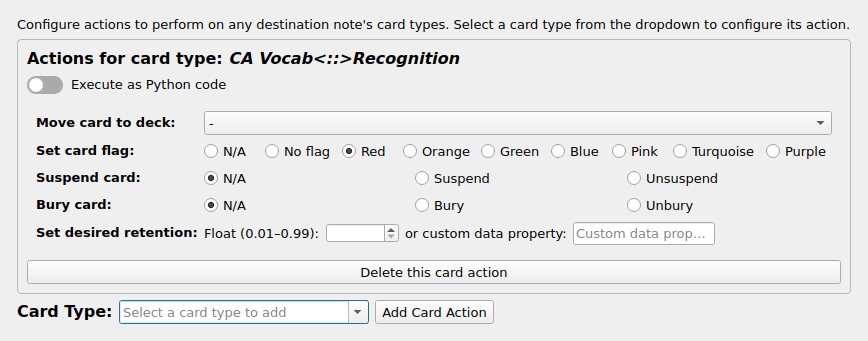
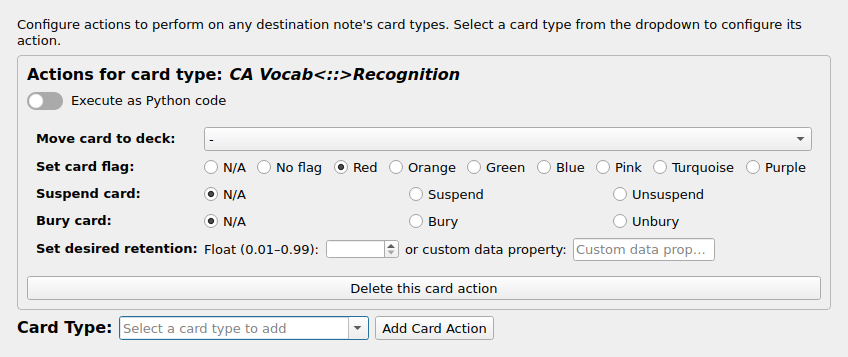
copy_anywhere: the definition editor's text no longer widens it
A QLabel on one line needs its whole text's width, and in the definition
editor that set the minimum width of the scroll area. An Edit Note stage
whose summary listed a dozen fields made the stage list as wide as that
line, 3333px in the test, and it scrolled sideways far past its half of
the dialog. The help texts under the triggers, the stages, the exports
and the card actions did the same on a smaller scale; the card actions'
alone needed 769px.

- A stage's summary is now an ElidedLabel: one line that ends in "…"
  where the row runs out, with the whole text on hover. Wrapping it
  instead was tried and cut the extra lines off, because the nested
  layouts do not give a row the height a wrapped label needs. text()
  still returns the whole summary, so code and tests read what it says,
  not how much of it fits.
- The help texts and the card-action header wrap, through a small
  `wrapping` helper.
- The triggers form's left-hand labels and the stage titles stay on one
  line. QFormLayout cut off the end of a wrapped label, and a wrapped
  title reports a narrow preferred width that broke even two-word names.
  Both are short and fixed or user-chosen, and no longer set the width.

With a crowded Edit Note stage, the editor's minimum width falls from
801px to 479px.

Tests:
- A long summary leaves its row as narrow as a short one does.
- Every small-print help text in the editor wraps.
- ElidedLabel shows what fits and says the rest on hover.
[…]

diff --git a/copy_anywhere/test/test_stage_editor_ui.py b/copy_anywhere/test/test_stage_editor_ui.py
@@ -9,6 +9,7 @@ is ordinary logic that happens to live in widgets.
 import copy
 
 import pytest
+from aqt.qt import QLabel
 
 from copy_anywhere.configuration import (
     definition_deck_names,
@@ -187,6 +188,61 @@ def test_the_card_action_loading_note_is_gone_once_the_actions_load(col, qapp):
     actions._process_load_queue()
     assert actions.loading_indicator is None
     assert indicator.isHidden()
+
+
+def test_a_long_stage_summary_is_cut_off_rather_than_widening_its_row(col, qapp):
+    # A summary listing a dozen field names on one line made the row, and with it the whole
+    # stage list, as wide as the text: the list scrolled sideways past its half of the dialog.
+    def edit_note_row(field_names):
+        stage = default_stage(STAGE_EDIT_NOTE, "e")
+        stage["fields"] = [
+            {"field": name, "value": value_expression(text="x"), "write_if": "always"}
+            for name in field_names
+        ]
+        tree = tree_for(col, stage)
+        tree.rows["e"].set_expanded(False, announce=False)
+        return tree.rows["e"]
+
+    short = edit_note_row(["Word"])
+    long = edit_note_row([f"sentence-{n}-kanjified-furigana-processed" for n in range(12)])
+    assert len(long.summary.text()) > 300
+    # It needed 3333px on one line. Cut off with "…" where the row ends, it asks for no
+    # more than a short one, and says the rest on hover.
+    assert long.minimumSizeHint().width() == short.minimumSizeHint().width()
+
+
+def test_an_elided_label_shows_what_fits_and_says_the_rest_on_hover(qapp):
+    from copy_anywhere.ui.labels import ElidedLabel
+
+    text = "trigger: " + ", ".join(f"field-{n}" for n in range(40))
+    label = ElidedLabel(text)
+    # Shown, because a hidden widget is sent its resize events only when it is shown.
+    label.show()
+    label.resize(200, label.height())
+
+    shown = QLabel.text(label)
+    assert shown.endswith("…") and len(shown) < len(text)
+    assert label.text() == text
+    assert label.toolTip() == text
+
+    label.resize(label.sizeHint().width() + 10, label.height())
+
+    assert QLabel.text(label) == text
+    assert label.toolTip() == ""
+    label.close()
+
+
+def test_the_editor_s_help_text_wraps_rather_than_widening_it(dialog):
+    # On one line, the Exports panel's help alone set the editor's minimum width to 684px,
+    # and the card actions' to 769px.
+    from aqt.qt import QLabel
+
+    help_texts = [
+        label for label in dialog.inner_widget.findChildren(QLabel)
+        if label.text().startswith("<small>")
+    ]
+    assert len(help_texts) >= 4
+    assert [label.text()[:40] for label in help_texts if not label.wordWrap()] == []
 
 
 # -- reorder --------------------------------------------------------------------------

diff --git a/copy_anywhere/ui/labels.py b/copy_anywhere/ui/labels.py
@@ -1,0 +1,65 @@
+"""Labels that wrap instead of widening the editor.
+
+A QLabel does not wrap by default, and its minimum width is then its whole text on one line.
+In the definition editor that meant a stage summary listing a dozen field names, or one
+line of help text, set the minimum width of the whole scroll area: the stage list grew
+wider than its half of the dialog and scrolled sideways.
+"""
+
+from __future__ import annotations
+
+from typing import Optional
+
+from aqt.qt import QLabel, QResizeEvent, QSize, Qt, QWidget, qtmajor
+
+if qtmajor > 5:
+    ElideRight = Qt.TextElideMode.ElideRight
+else:  # pragma: no cover -- Anki 2.1.49 and older
+    ElideRight = Qt.ElideRight  # type: ignore[attr-defined]
+
+
+def wrapping(label: QLabel) -> QLabel:
+    """`label`, set to wrap its text at the width it is given."""
+    label.setWordWrap(True)
+    return label
+
+
+class ElidedLabel(QLabel):
+    """One line of plain text that ends in "…" where the space runs out, whole on hover.
+
+    For a line that sits beside other widgets in a row, such as a stage's summary. A wrapped
+    label there needs the row to grow taller for it, and nested layouts do not pass that on,
+    so the extra lines were cut off. This one asks for no width it does not get: its minimum
+    is a sliver, and what it is given decides how much of the text shows.
+    """
+
+    def __init__(self, text: str = "", parent: Optional[QWidget] = None) -> None:
+        super().__init__(parent)
+        self._full_text = ""
+        self.setText(text)
+
+    def setText(self, text: Optional[str]) -> None:  # noqa: N802 -- Qt's name
+        self._full_text = text or ""
+        self._elide()
+
+    def text(self) -> str:
+        """The whole text, as set. Only the painting is shortened: code and tests reading the
+        label get what it says, not how much of it fits."""
+        return self._full_text
+
+    def minimumSizeHint(self) -> QSize:  # noqa: N802 -- Qt's name
+        hint = super().minimumSizeHint()
+        return QSize(self.fontMetrics().horizontalAdvance("…") * 3, hint.height())
+
+    def sizeHint(self) -> QSize:  # noqa: N802 -- Qt's name
+        hint = super().sizeHint()
+        return QSize(self.fontMetrics().horizontalAdvance(self._full_text), hint.height())
+
+    def resizeEvent(self, event: Optional[QResizeEvent]) -> None:  # noqa: N802 -- Qt's name
+        super().resizeEvent(event)
+        self._elide()
+
+    def _elide(self) -> None:
+        shown = self.fontMetrics().elidedText(self._full_text, ElideRight, self.width())
+        super().setText(shown)
+        self.setToolTip(self._full_text if shown != self._full_text else "")

diff --git a/copy_anywhere/ui/stage_triggers_editor.py b/copy_anywhere/ui/stage_triggers_editor.py
@@ -27,6 +27,7 @@ from aqt.qt import (
 from ..logic.definition_schema import CopyDefinitionV2, Triggers
 from ..shared.ui.multi_combo_box import MultiComboBox
 from ..shared.ui.required_text_input import RequiredLineEdit
+from .labels import wrapping
 
 
 def quoted_items(names) -> list[str]:
@@ -138,10 +139,12 @@ class TriggersEditor(QWidget):
         form.addRow(QLabel("<h4>Trigger deck limit</h4>", self), self.decks_box)
         form.addRow(
             "",
-            QLabel(
-                "<small>Cards belong to decks, not notes. A note passes the limit when any"
-                " of its cards is in a listed deck.</small>",
-                self,
+            wrapping(
+                QLabel(
+                    "<small>Cards belong to decks, not notes. A note passes the limit when"
+                    " any of its cards is in a listed deck.</small>",
+                    self,
+                )
             ),
         )
 
@@ -168,6 +171,8 @@ class TriggersEditor(QWidget):
         unfocus = triggers.setdefault("on_unfocus", {"edit_fields": [], "add_fields": []})
         self.unfocus_edit = MultiComboBox(self, placeholder_text="No fields (never)")
         self.unfocus_edit.currentTextChanged.connect(self._on_changed)
+        # The labels in this form's left column stay on one line: QFormLayout does not give
+        # a wrapped label the height its extra lines need, so the end of it was cut off.
         form.addRow(
             QLabel("<h4>Run when leaving a field, editing a note</h4>", self),
             self.unfocus_edit,
@@ -179,10 +184,12 @@ class TriggersEditor(QWidget):
         )
         form.addRow(
             "",
-            QLabel(
-                "<small>Unfocus runs the whole definition, not just the stages that mention"
-                " the field you left.</small>",
-                self,
+            wrapping(
+                QLabel(
+                    "<small>Unfocus runs the whole definition, not just the stages that"
+                    " mention the field you left.</small>",
+                    self,
+                )
             ),
         )
         # What the user has chosen, as opposed to what the boxes can currently offer. The

diff --git a/copy_anywhere/ui/stage_list.py b/copy_anywhere/ui/stage_list.py
@@ -23,12 +23,14 @@ from aqt.qt import (
     QToolButton,
     QVBoxLayout,
     QWidget,
+    Qt,
     pyqtSignal,
     qtmajor,
 )
 
 from ..logic.definition_schema import Stage, stage_body_blocks
 from .discard import discard_widget
+from .labels import ElidedLabel
 from .stage_document import (
     BODY_KEY_LABELS,
     STAGE_TYPE_ICONS,
@@ -49,9 +51,11 @@ from .stage_editors import StageEditorEnvironment, make_stage_editor
 if qtmajor > 5:
     QSizePolicyPreferred = QSizePolicy.Policy.Preferred
     QSizePolicyMinimum = QSizePolicy.Policy.Minimum
+    PlainText = Qt.TextFormat.PlainText
 else:  # pragma: no cover -- Anki 2.1.49 and older
     QSizePolicyPreferred = QSizePolicy.Preferred  # type: ignore[attr-defined]
     QSizePolicyMinimum = QSizePolicy.Minimum  # type: ignore[attr-defined]
+    PlainText = Qt.PlainText  # type: ignore[attr-defined]
 
 #: How far one nesting level is indented, in pixels.
 INDENT = 18
@@ -91,10 +95,13 @@ class StageRow(QFrame):
 
         stage_type = stage.get("type", "")
         header.addWidget(QLabel(STAGE_TYPE_ICONS.get(stage_type, "•"), self))
+        # The title stays on one line; a wrapped label reports a narrow preferred width, and
+        # the layout then broke even a two-word stage name.
         self.title = QLabel(f"<b>{stage_label(stage)}</b>", self)
         header.addWidget(self.title)
-        self.summary = QLabel(stage_summary(stage), self)
+        self.summary = ElidedLabel(stage_summary(stage), self)
         self.summary.setStyleSheet("color: palette(mid);")
+        self.summary.setTextFormat(PlainText)
         self.summary.setSizePolicy(QSizePolicyPreferred, QSizePolicyMinimum)
         header.addWidget(self.summary, 1)
 

diff --git a/copy_anywhere/ui/stage_exports_editor.py b/copy_anywhere/ui/stage_exports_editor.py
@@ -20,6 +20,7 @@ from aqt.qt import (
 from ..logic.definition_schema import Export, stage_result_name
 from ..shared.ui.required_text_input import RequiredLineEdit
 from .discard import discard_widget
+from .labels import wrapping
 from .stage_document import StageDocument
 
 
@@ -34,11 +35,13 @@ class ExportsEditor(QWidget):
         self.box = QVBoxLayout(self)
         self.box.setContentsMargins(0, 0, 0, 0)
         self.box.addWidget(
-            QLabel(
-                "<small>A definition that is called by another can hand back any result"
-                " produced at its top level. Nothing is handed back when it runs on its"
-                " own.</small>",
-                self,
+            wrapping(
+                QLabel(
+                    "<small>A definition that is called by another can hand back any result"
+                    " produced at its top level. Nothing is handed back when it runs on its"
+                    " own.</small>",
+                    self,
+                )
             )
         )
         self.rows_container = QWidget(self)
@@ -69,9 +72,11 @@ class ExportsEditor(QWidget):
         candidates.extend(sorted(stray))
         if not candidates:
             self.rows_layout.addWidget(
-                QLabel(
-                    "<small>No stage at the top level produces a result yet.</small>",
-                    self.rows_container,
+                wrapping(
+                    QLabel(
+                        "<small>No stage at the top level produces a result yet.</small>",
+                        self.rows_container,
+                    )
                 )
             )
             return

diff --git a/copy_anywhere/ui/card_actions_editor.py b/copy_anywhere/ui/card_actions_editor.py
@@ -30,6 +30,7 @@ from ..configuration import (
 from ..shared.ui.code_edit_layout import CodeEditLayout
 from ..shared.ui.loading_indicator import LoadingIndicator
 from .discard import discard_widget
+from .labels import wrapping
 from .code_notices import CARD_ACTION_CODE_NOTICE
 from .outline import outline_frame
 from .stage_edit_state import StageEditState
@@ -115,7 +116,7 @@ class CardActionsEditor(QWidget):
         self.setLayout(self.vbox)
 
         # Add description label
-        self.description_label = QLabel(self)
+        self.description_label = wrapping(QLabel(self))
         self.vbox.addWidget(self.description_label)
 
         # Container for all action editors (displayed inline)
@@ -478,11 +479,13 @@ class CardActionsEditor(QWidget):
         self.actions_layout.addWidget(frame)
 
         # Header
-        header = QLabel(
-            "<h3>Card action</h3>"
-            if self.single_card_mode
-            else f"<h3>Actions for card type: <em>{html.escape(card_type_name)}</em></h3>",
-            frame,
+        header = wrapping(
+            QLabel(
+                "<h3>Card action</h3>"
+                if self.single_card_mode
+                else f"<h3>Actions for card type: <em>{html.escape(card_type_name)}</em></h3>",
+                frame,
+            )
         )
         frame_layout.addWidget(header)
 

diff --git a/copy_anywhere/ui/edit_staged_definition_dialog.py b/copy_anywhere/ui/edit_staged_definition_dialog.py
@@ -34,6 +34,7 @@ from aqt.utils import showInfo
 from ..logic.definition_schema import CopyDefinitionV2, is_format_2
 from ..logic.flow_analysis import find_call_cycles, make_lookup
 from ..shared.ui.scrollable_dialog import ScrollableQDialog
+from .labels import wrapping
 from .stage_document import StageDocument
 from .stage_editor_context import known_fields_for, make_note_types_for
 from .stage_editors import StageEditorEnvironment
@@ -132,10 +133,12 @@ class EditStagedDefinitionDialog(ScrollableQDialog):
 
         self.body.addWidget(QLabel("<h2>Stages</h2>", self.inner_widget))
         self.body.addWidget(
-            QLabel(
-                "<small>They run in this order. Each one can use anything named above"
-                " it.</small>",
-                self.inner_widget,
+            wrapping(
+                QLabel(
+                    "<small>They run in this order. Each one can use anything named above"
+                    " it.</small>",
+                    self.inner_widget,
+                )
             )
         )
         environment = StageEditorEnvironment(
